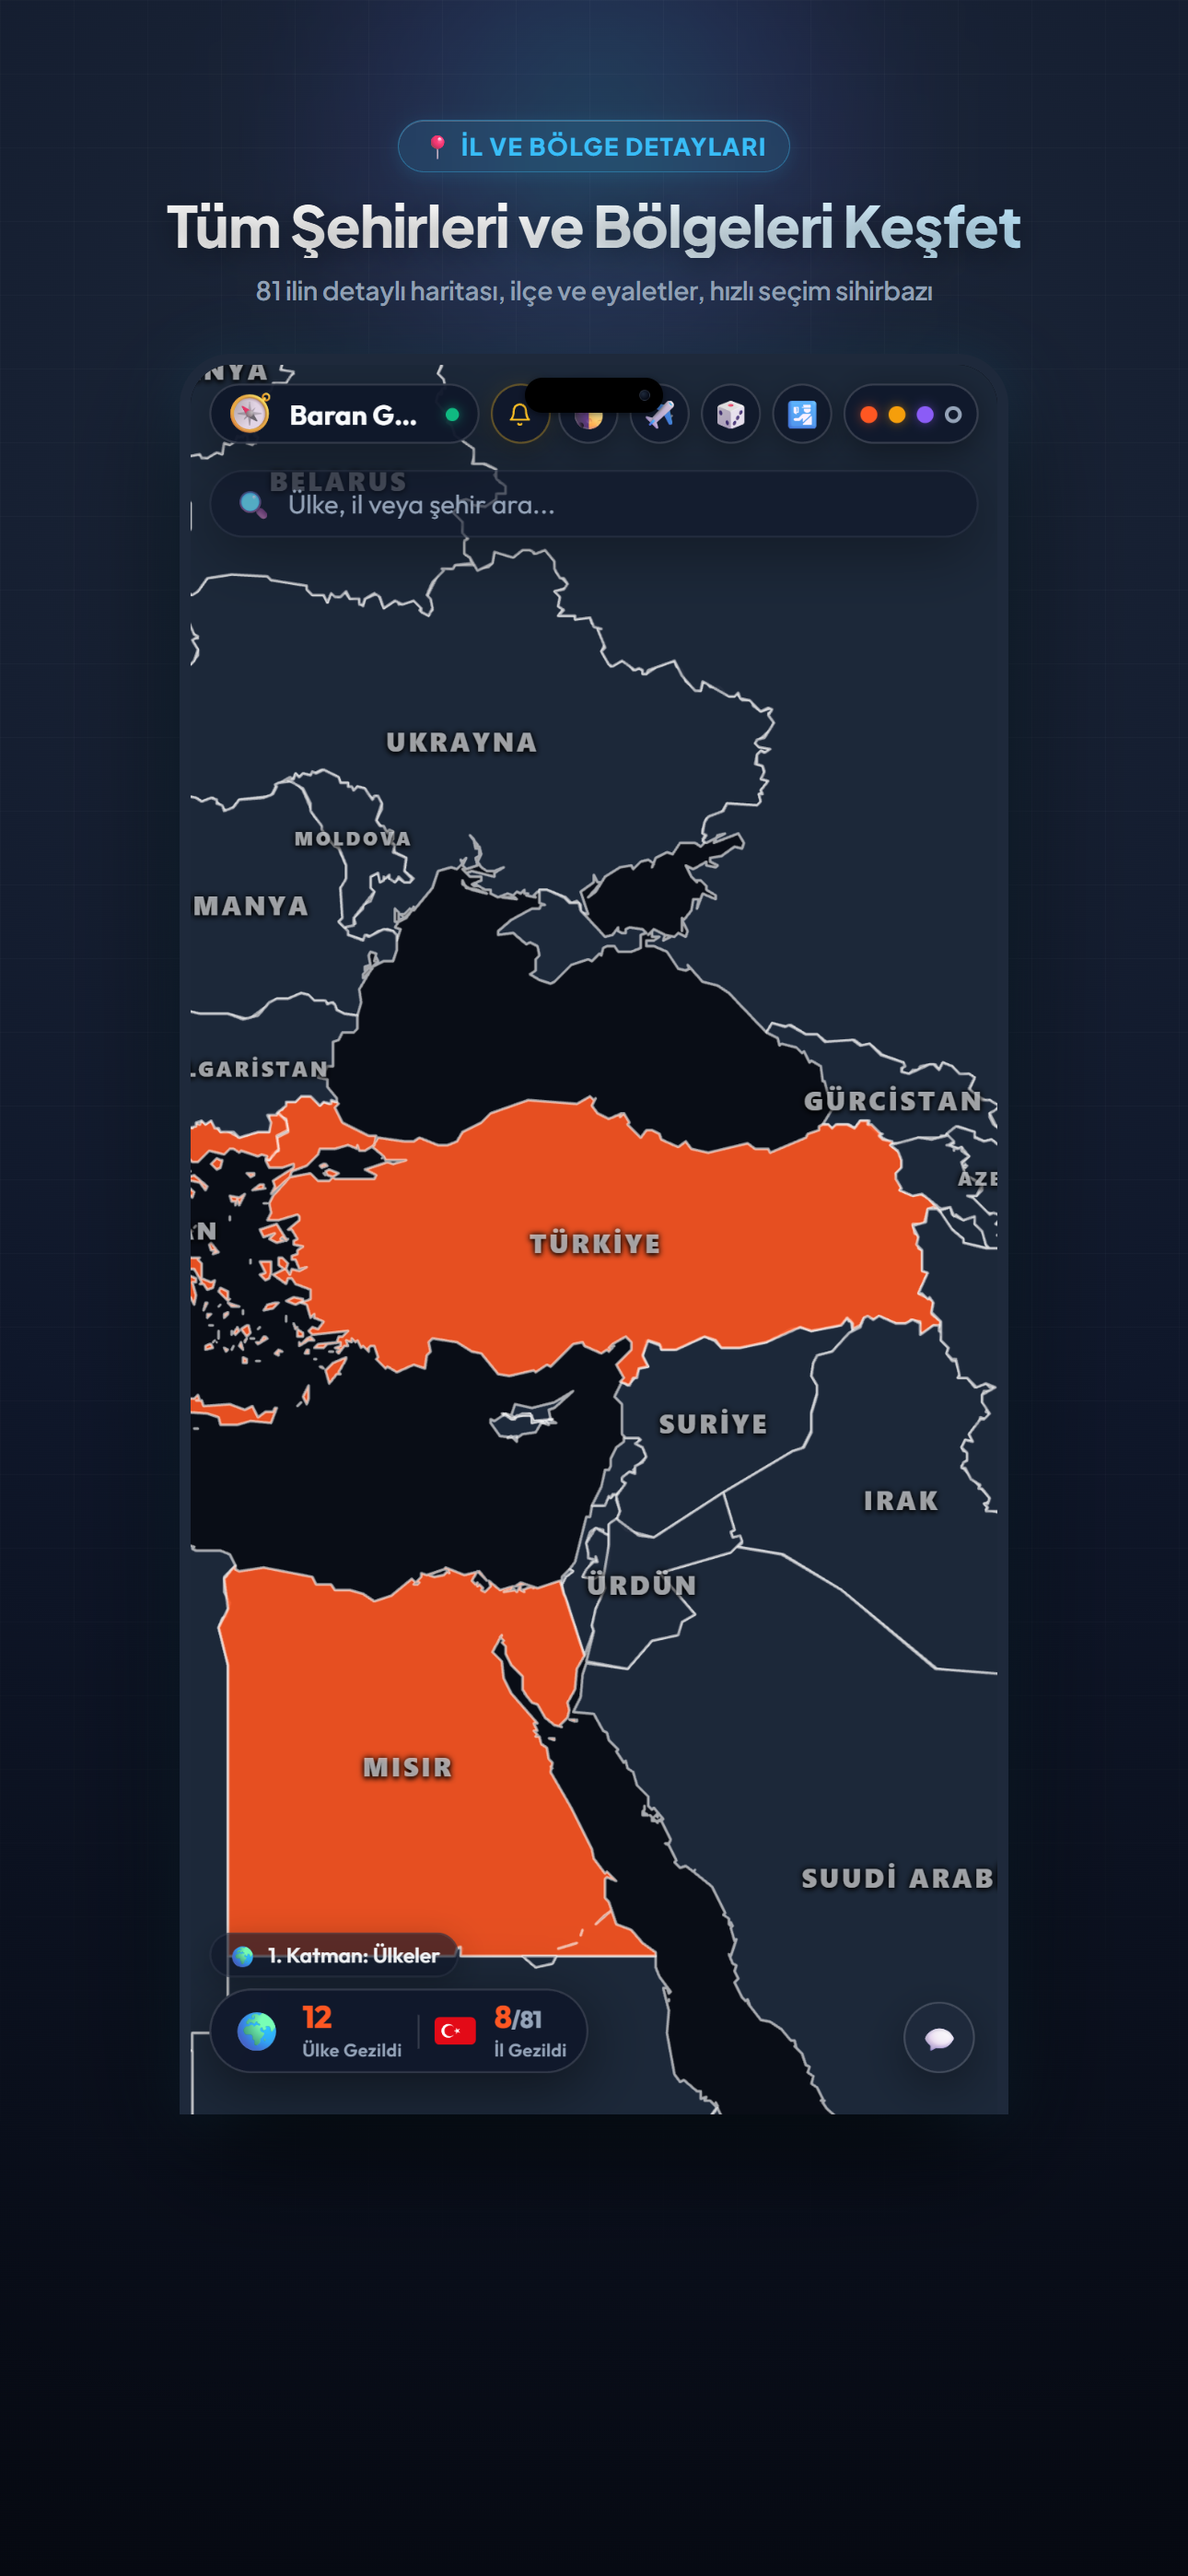
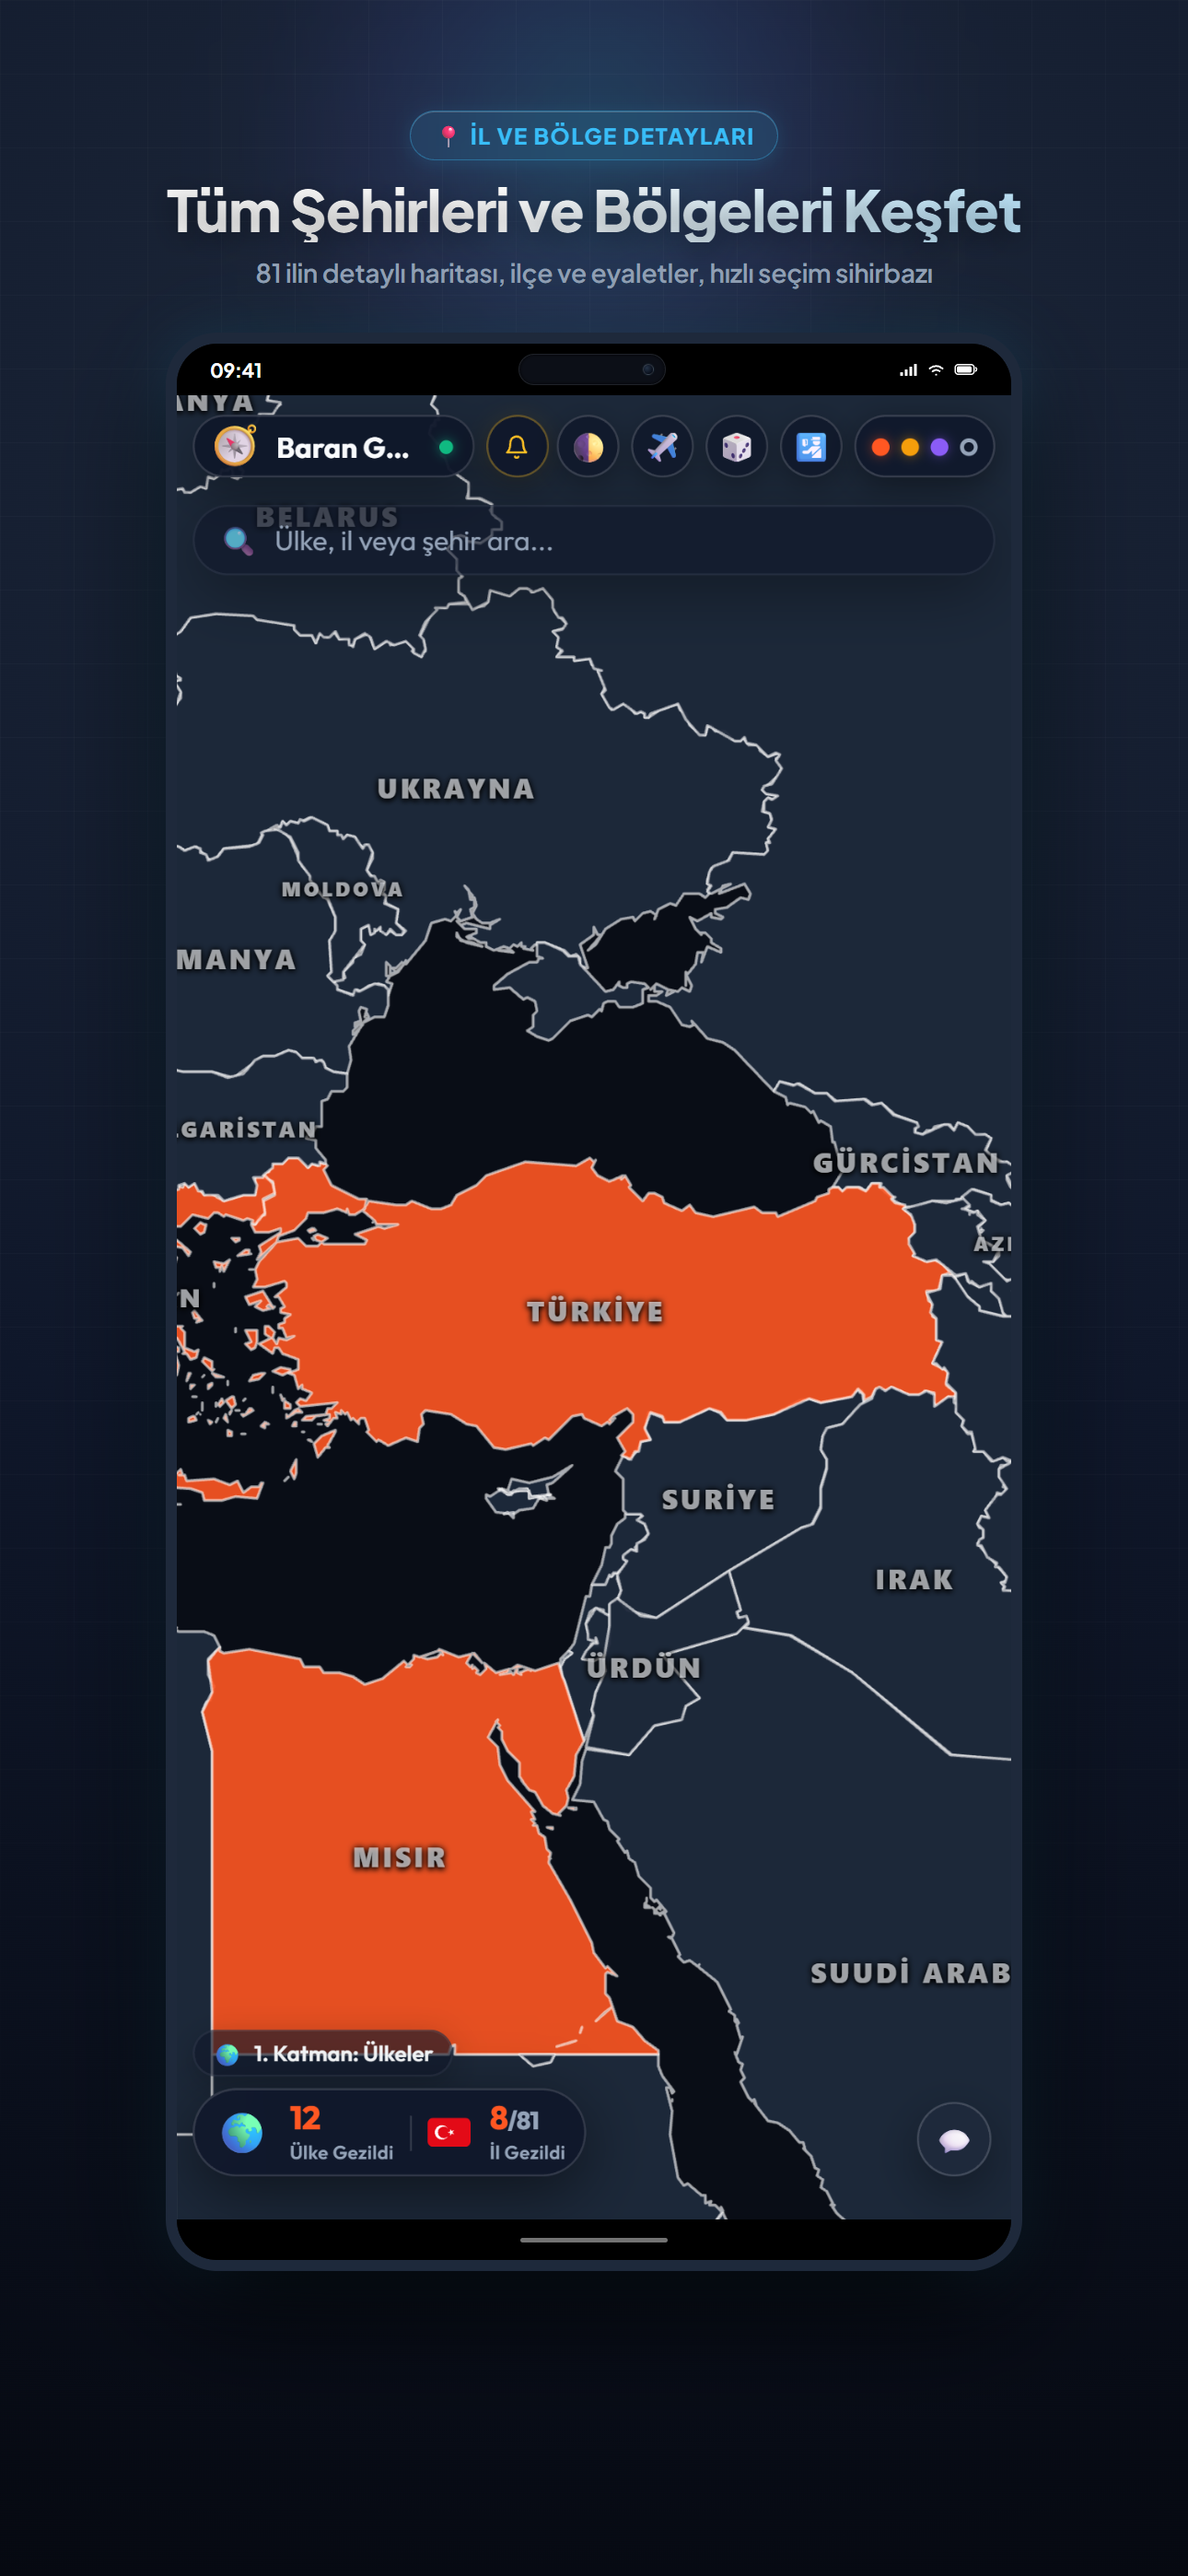
fix(marketing): magaza gorsellerinde kamera cakismasi ve telefon alt kesilmesi duzeltildi

diff --git a/STATE.md b/STATE.md
@@ -15,6 +15,7 @@ AKTIF_GOREV: yok
 - Bilinen açık sorun yok. (Apple App Store, Google Play ve Huawei AppGallery'de tüm sürümler onaylandı ve YAYINDA 🎉).
 
 ## Son Değişiklikler
+- 2026-11-11: Mağaza vitrin görsellerinde kamera çakışması (bağımsız status bar ile) ve telefonun alt kısmının kesilmesi (4 köşeli tam kasa ve home bar ile) giderildi. Yeni görseller ve artifact güncellendi.
 - 2026-11-11: Mağaza vitrin görselleri seti (App Store 1290x2796, Google Play 1080x2400 ve 1024x500 Feature Graphic) Puppeteer otomasyonu ile sıfırdan üretildi (`npm run stores:screenshots`). ProfileView bucket list renderındaki progress alanları ve triggerConfetti çağrısı düzeltildi.
 - 2026-11-11: Huawei AppGallery 2.9 sürümü başarıyla onaylandı ve yayına girdi (`State 0`). 3 mağazanın tümü yeşil ve yayında!
 - 2026-11-06: Huawei AppGallery 2.9 sürümü gizlilik etiketi form yapılandırması tamamlanarak başarıyla tekrar incelemeye gönderildi (`State 5`).
